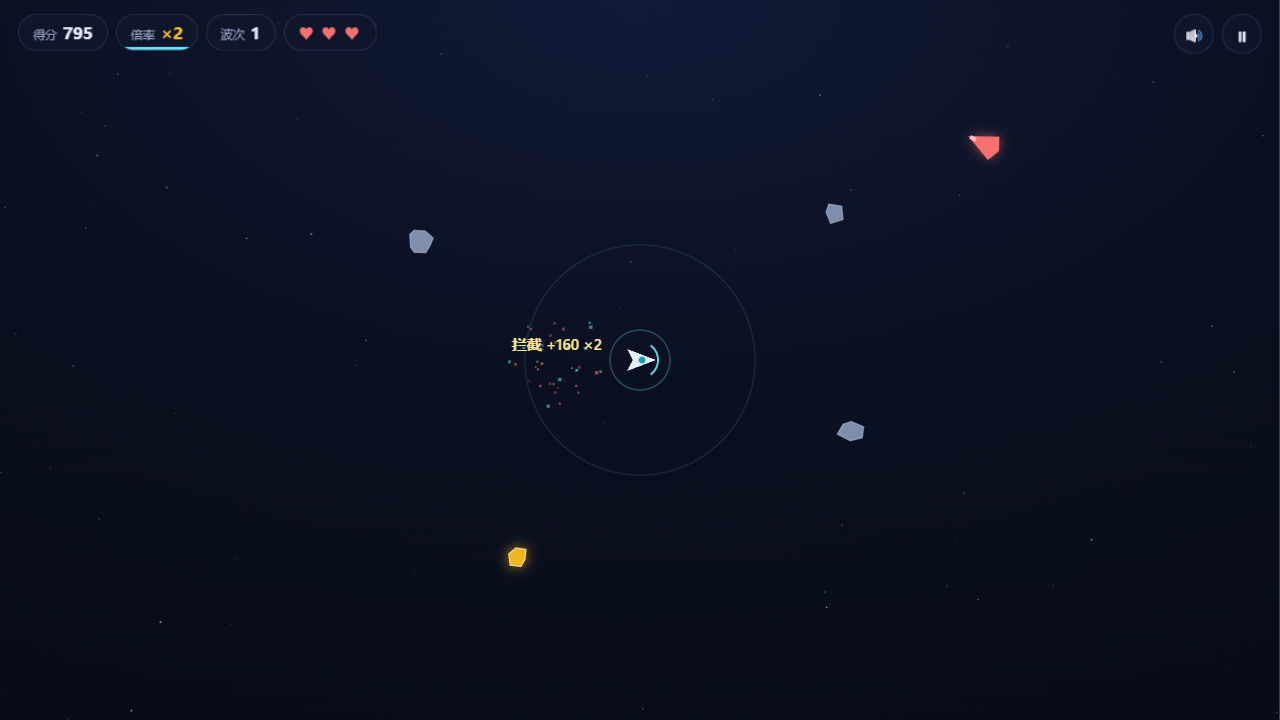
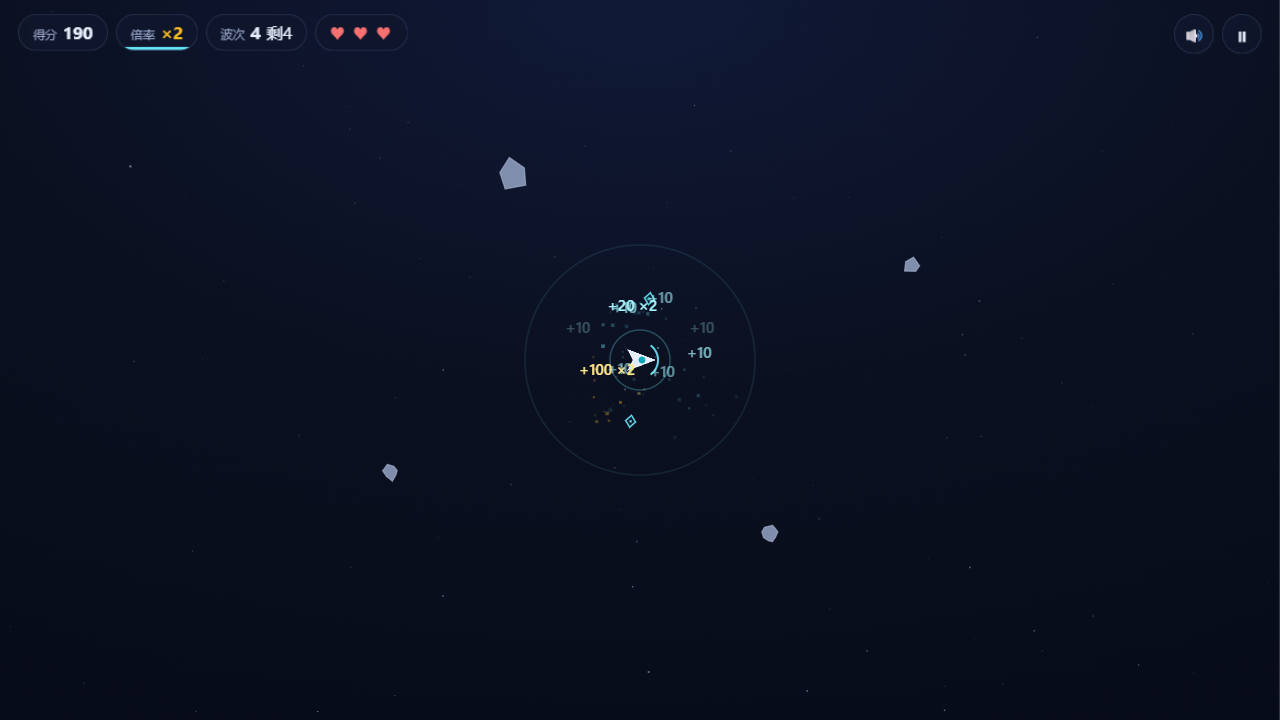
feat: 回收无人机、清理吨位统计与太空垃圾科普（Roadmap 两项）

diff --git a/js/game.js b/js/game.js
@@ -18,6 +18,7 @@
       this.stars = new OS.Starfield(this.w, this.h);
       this.junk = [];
       this.hazards = [];
+      this.drones = [];
       this.particles = [];
       this.floats = [];
       this.pool = new OS.Pool(() => ({}));
@@ -29,7 +30,7 @@
       this.comboTimer = 0;
       this.wave = 0;
       this.upgradeCounts = {};
-      this.stats = { junk: 0, stab: 0, graze: 0 };
+      this.stats = { junk: 0, stab: 0, graze: 0, tonnage: 0 };
       this.hazardTimer = 0;
       this.hazardDelay = C.wave.hazardDelayStart;
       this.shake = 0;
@@ -86,12 +87,13 @@
       this.comboTimer = 0;
       this.wave = 0;
       this.upgradeCounts = {};
-      this.stats = { junk: 0, stab: 0, graze: 0 };
+      this.stats = { junk: 0, stab: 0, graze: 0, tonnage: 0 };
       this.newBestIndex = -1;
       this.shake = 0;
       this.slowmo = 0;
       this.junk.length = 0;
       this.hazards.length = 0;
+      this.drones.length = 0;
       this.floats.length = 0;
       this.ship.reset(this.w, this.h);
       this.setState('playing');
@@ -160,6 +162,19 @@
       this.time += dt;
       const ship = this.ship;
       ship.step(dt, this.input, this.w, this.h);
+
+      /* 无人机绕行并自动回收擦过的垃圾（每架每步最多结算一件） */
+      for (const d of this.drones) {
+        d.step(dt, ship);
+        for (let i = this.junk.length - 1; i >= 0; i--) {
+          const j = this.junk[i];
+          const rr = C.drone.captureRadius + j.radius;
+          if (OS.dist2(d.x, d.y, j.x, j.y) < rr * rr) {
+            this.capture(j, i);
+            break;
+          }
+        }
+      }
 
       /* 磁力牵引 + 捕获 */
       for (let i = this.junk.length - 1; i >= 0; i--) {
@@ -270,6 +285,7 @@
       const gained = Math.round(j.value * this.ship.mods.valueMul * this.mult);
       this.score += gained;
       this.stats.junk++;
+      this.stats.tonnage += j.tonnage;
       this.floats.push({
         x: j.x, y: j.y,
         text: `+${gained}`,
@@ -290,6 +306,7 @@
       const gained = Math.round(C.hazard.value * this.ship.mods.valueMul * this.mult);
       this.score += gained;
       this.stats.stab++;
+      this.stats.tonnage += C.junk.hazardT;
       this.floats.push({
         x: hz.x, y: hz.y,
         text: `拦截 +${gained}`,
@@ -370,6 +387,10 @@
         case 'net': ship.captureRadius *= 1.14; break;
         case 'stabilizer': ship.stabilizeTime *= 0.82; break;
         case 'coat': ship.mods.grazeMul *= 1.6; break;
+        case 'drone':
+          /* 第二架无人机反向相位部署 */
+          this.drones.push(new OS.Drone(this.drones.length ? this.drones[0].angle + Math.PI : 0));
+          break;
         case 'armor':
           ship.hpMax = Math.min(C.hp.max, ship.hpMax + 1);
           ship.hp = ship.hpMax;
@@ -466,6 +487,7 @@
 
       if (this.state === 'playing' || this.state === 'paused' || this.state === 'upgrade') {
         this.drawShip(ctx);
+        for (const d of this.drones) d.draw(ctx);
       }
 
       OS.Particles.draw(ctx, this);

diff --git a/js/config.js b/js/config.js
@@ -37,7 +37,10 @@
       grazeValue: 15       // 擦弹得分
     },
 
-    junk: { drift: 55, value: 10, goldValue: 50, rMin: 9, rMax: 20 },
+    junk: { drift: 55, value: 10, goldValue: 50, rMin: 9, rMax: 20,
+            tMin: 0.4, tMax: 2.5, goldT: 4, hazardT: 6 }, // 吨位：结算页的"清理量"统计
+
+    drone: { orbitRadius: 62, angularSpeed: 2.2, captureRadius: 17 },
 
     combo: { step: 8, maxMult: 4, holdTime: 5 }, // 每连击 8 次倍率 +1，上限 ×4；holdTime 秒不进账清零
 
@@ -48,12 +51,27 @@
     upgrades: [
       { id: 'magnet',     icon: '🧲', name: '磁力线圈', desc: '磁力范围 +18%', max: 4 },
       { id: 'engine',     icon: '🛸', name: '离子引擎', desc: '移动速度 +12%', max: 4 },
+      { id: 'drone',      icon: '🤖', name: '回收无人机', desc: '一架无人机绕行，自动回收擦过的碎片', max: 2 },
       { id: 'net',        icon: '🕸', name: '捕获网',   desc: '捕获半径 +14%', max: 3 },
       { id: 'stabilizer', icon: '🌀', name: '稳定器',   desc: '残骸稳定牵引时间 -18%', max: 3 },
       { id: 'coat',       icon: '🪶', name: '回避涂层', desc: '擦弹得分 +60%', max: 3 },
       { id: 'armor',      icon: '🛡', name: '纳米装甲', desc: '血量上限 +1 并完全修复', max: 2 },
       { id: 'slow',       icon: '⏳', name: '时滞力场', desc: '危险残骸速度 -15%', max: 3 },
       { id: 'value',      icon: '💎', name: '回收合同', desc: '回收价值 +20%', max: 3 }
+    ],
+
+    /* 太空垃圾真实科普：结算页随机展示一条，呼应"清理轨道"的题材 */
+    tips: [
+      '凯斯勒效应：碎片相撞产生更多碎片，可能引发级联连锁反应，让某些轨道高度彻底不可用。',
+      '国际空间站平均每年都要执行数次规避机动，躲开迎面而来的碎片。',
+      '2009 年，工作的铱星 33 与废弃的宇宙 2251 卫星相撞，产生两千多块可追踪碎片。',
+      '地球轨道上大于 10 厘米的可追踪物体已超过三万个；小于 1 厘米的碎片估计过亿。',
+      '一块 1 厘米的铝球以轨道速度撞击，释放的能量相当于一颗手榴弹。',
+      '航天器常用"惠普尔防护层"：用一层牺牲板把毫米级碎片汽化成无害的等离子体云。',
+      '报废卫星的标准归宿：推入"墓地轨道"，或受控再入大气层烧毁。',
+      '轨道物体相撞的相对速度可达 15 km/s，是步枪子弹的十倍以上。',
+      '欧空局正在研发"太空清道夫"航天器，专门抓取废弃物体拖离轨道。',
+      '低轨道碎片会被稀薄大气阻力缓慢拖落，高度越低，"自清洁"越快。'
     ],
 
     bestKey: 'orbitSweeper.best.v1',

diff --git a/js/main.js b/js/main.js
@@ -32,6 +32,7 @@
     combo: $('#hudCombo'),
     comboBar: $('#hudComboBar'),
     wave: $('#hudWave'),
+    left: $('#hudLeft'),
     hearts: $('#hudHearts'),
     pauseBtn: $('#pauseBtn'),
     muteBtn: $('#muteBtn'),
@@ -154,11 +155,13 @@
     els.overNew.classList.toggle('hidden', game.newBestIndex !== 0);
     const s = game.stats;
     document.getElementById('overMisc').textContent =
-      `本局回收 ${s.junk} 件 · 拦截残骸 ${s.stab} · 擦弹 ${s.graze} 次`;
+      `本局回收 ${s.junk} 件 · 拦截残骸 ${s.stab} · 擦弹 ${s.graze} 次 · 清理轨道 ${s.tonnage.toFixed(1)} 吨碎片`;
+    document.getElementById('overTip').textContent =
+      '💡 ' + OS.pick(C.tips);
   };
 
   /* ---------- HUD 增量刷新（只在数值变化时写 DOM） ---------- */
-  const hudCache = { score: -1, wave: -1, mult: -1, comboPct: -1 };
+  const hudCache = { score: -1, wave: -1, mult: -1, comboPct: -1, left: -1 };
   game.onHud = () => {
     if (game.score !== hudCache.score) {
       hudCache.score = game.score;
@@ -167,6 +170,11 @@
     if (game.wave !== hudCache.wave) {
       hudCache.wave = game.wave;
       els.wave.textContent = game.wave;
+    }
+    const left = game.junk.length;
+    if (left !== hudCache.left) {
+      hudCache.left = left;
+      els.left.textContent = left > 0 ? '剩' + left : '';
     }
     if (game.mult !== hudCache.mult) {
       hudCache.mult = game.mult;

diff --git a/js/entities.js b/js/entities.js
@@ -88,6 +88,7 @@
       this.gold = !!gold;
       this.radius = OS.rand(C.junk.rMin, C.junk.rMax);
       this.value = this.gold ? C.junk.goldValue : C.junk.value;
+      this.tonnage = this.gold ? C.junk.goldT : +OS.rand(C.junk.tMin, C.junk.tMax).toFixed(1);
 
       /* 生成点避开飞船，防止"白送" */
       let x, y, tries = 0;
@@ -250,6 +251,41 @@
         ctx.stroke();
         ctx.restore();
       }
+    }
+  };
+
+  /* ---------- 回收无人机：绕船运行，自动捕获擦过的垃圾 ---------- */
+  OS.Drone = class {
+    constructor(phase) {
+      this.angle = phase;
+      this.x = 0;
+      this.y = 0;
+    }
+
+    step(dt, ship) {
+      this.angle += C.drone.angularSpeed * dt;
+      this.x = ship.x + Math.cos(this.angle) * C.drone.orbitRadius;
+      this.y = ship.y + Math.sin(this.angle) * C.drone.orbitRadius;
+    }
+
+    draw(ctx) {
+      ctx.save();
+      ctx.translate(this.x, this.y);
+      ctx.rotate(this.angle + Math.PI / 2);
+      ctx.strokeStyle = 'rgba(103,232,249,0.9)';
+      ctx.lineWidth = 1.5;
+      ctx.fillStyle = 'rgba(10,30,44,0.9)';
+      ctx.beginPath();
+      ctx.moveTo(0, -6);
+      ctx.lineTo(5, 0);
+      ctx.lineTo(0, 6);
+      ctx.lineTo(-5, 0);
+      ctx.closePath();
+      ctx.fill();
+      ctx.stroke();
+      ctx.fillStyle = '#67e8f9';
+      ctx.fillRect(-1, -1, 2, 2);
+      ctx.restore();
     }
   };
 

diff --git a/index.html b/index.html
@@ -17,7 +17,7 @@
   <div class="hud-group">
     <div class="hud-chip"><span class="hud-label">得分</span><span id="hudScore" class="hud-num">0</span></div>
     <div class="hud-chip combo-chip"><span class="hud-label">倍率</span><span id="hudCombo" class="hud-num">×1</span><i id="hudComboBar" aria-hidden="true"></i></div>
-    <div class="hud-chip"><span class="hud-label">波次</span><span id="hudWave" class="hud-num">1</span></div>
+    <div class="hud-chip"><span class="hud-label">波次</span><span id="hudWave" class="hud-num">1</span><span id="hudLeft" class="hud-sub"></span></div>
     <div class="hud-chip hearts" id="hudHearts" aria-label="血量"></div>
   </div>
   <div class="hud-actions">
@@ -81,6 +81,7 @@
       <div class="over-stat"><span class="label">抵达波次</span><span id="overWave" class="big">1</span></div>
     </div>
     <p id="overMisc" class="over-misc"></p>
+    <div id="overTip" class="over-tip"></div>
     <div class="best">
       <h2>最佳纪录 TOP 5</h2>
       <ol id="bestListOver" class="best-list"></ol>

diff --git a/style.css b/style.css
@@ -78,6 +78,7 @@ body {
 
 .hud-label { font-size: 12px; color: var(--dim); }
 .hud-num { font-size: 16px; font-weight: 700; }
+.hud-sub { font-size: 11px; color: var(--dim); align-self: center; }
 #hudCombo.hot { color: var(--amber); }
 
 /* 倍率胶囊内的连击倒计时条 */
@@ -390,6 +391,17 @@ body {
   font-size: 13px;
   margin: 0 0 12px;
   font-variant-numeric: tabular-nums;
+}
+
+/* 结算页太空垃圾科普卡 */
+.over-tip {
+  border-left: 3px solid var(--cyan);
+  background: rgba(103, 232, 249, 0.06);
+  padding: 10px 12px;
+  border-radius: 0 10px 10px 0;
+  font-size: 12.5px;
+  line-height: 1.65;
+  margin: 0 0 12px;
 }
 .new-record {
   color: var(--amber);

diff --git a/README.md b/README.md
@@ -23,8 +23,8 @@ python -m http.server 8791
 - **拦截**：红色残骸进入磁力圈会被强减速，**持续牵引约 1.2 秒即可"稳定化"回收（+80 分）**——离得太近仍会撞船，是全游戏最高收益也最高风险的主动作
 - **擦弹**：贴着残骸擦过（未碰撞）得 +15 分并累积连击，每颗残骸只结算一次；回避涂层升级可放大收益
 - **连击压力**：连击 5 秒不进账就清零（HUD 倍率下有倒计时条），被撞也会清零
-- **强化**：每清完一波三选一——磁力线圈 / 离子引擎 / 捕获网 / 稳定器 / 回避涂层 / 纳米装甲 / 时滞力场 / 回收合同
-- **结束**：血量耗尽结算（含本局回收/拦截/擦弹统计），本地保存 TOP 5 最佳纪录
+- **强化**：每清完一波三选一——磁力线圈 / 离子引擎 / **回收无人机** / 捕获网 / 稳定器 / 回避涂层 / 纳米装甲 / 时滞力场 / 回收合同
+- **结束**：血量耗尽结算（含本局回收/拦截/擦弹/清理吨位统计，附一条太空垃圾真实科普），本地保存 TOP 5 最佳纪录
 
 ![战斗画面](shots/gameplay.png)
 
@@ -72,10 +72,11 @@ orbit-sweeper/
 
 ## Roadmap
 
+- [x] 升级新增：回收无人机（绕行自动回收，最多两架）
+- [x] 结算页展示本局回收"吨位"，附真实太空垃圾科普小知识
 - [ ] 部署 GitHub Pages，支持手机直接玩
-- [ ] 升级新增：无人机僚机、轨道减速伞（拉住高速垃圾）
+- [ ] 升级新增：轨道减速伞（拉住高速垃圾）
 - [ ] 每日挑战种子（同一串垃圾，全球比分数）
-- [ ] 结算页展示本局回收"吨位"，附真实太空垃圾科普小知识
 
 ---
 
